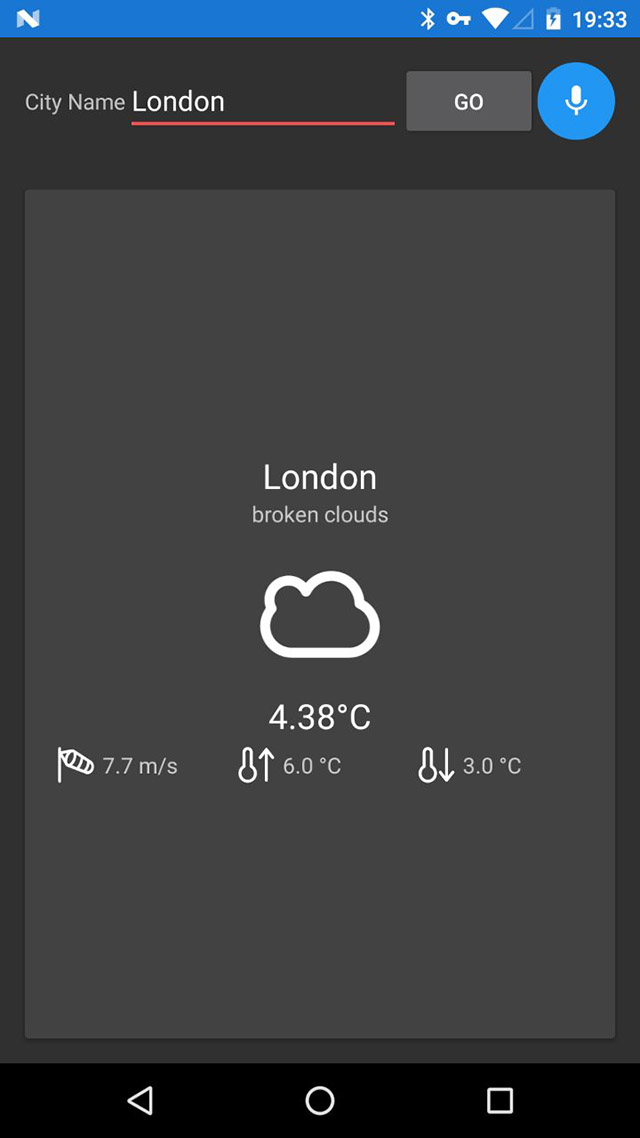
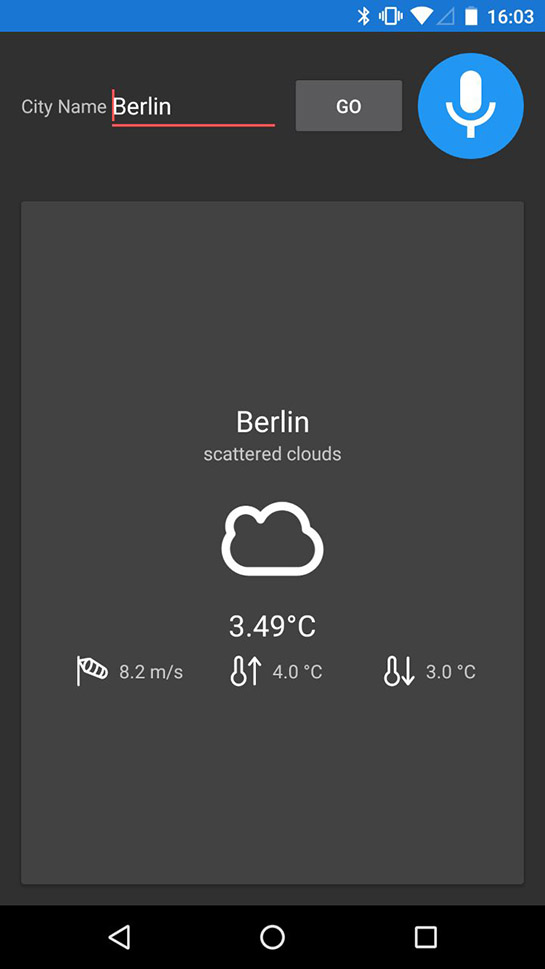
Add ReadMe & Diagram, update screenshot

diff --git a/README.md b/README.md
@@ -1,20 +1,87 @@
-# Android Coding Challenge
-We want to know how you write **code** - we don't care about coding challenges where you have to reimplement the HTTP protocol by using the bare basics, we want to know how you can use the existing libraries to solve the problems that we have to solve.
+Autolabs Application [![CircleCI](https://circleci.com/gh/mmirhoseini/Android-coding-challenge.svg?style=svg)](https://circleci.com/gh/mmirhoseini/Android-coding-challenge) [![Build Status](https://travis-ci.org/mmirhoseini/Android-coding-challenge.svg?branch=master)](https://travis-ci.org/mmirhoseini/Android-coding-challenge)
+===============================
 
-Your task is to create a very small Android application which will listen to a voice of the user and will tell them the current weather information when asked for. It's up to you to decide how exactly you want to approach this challenge - do you want to use the native SpeechRecognizer for voice recognition, use offline voice recognition for keywords (e.g. PocketSphinx) or another online service with conversational capabilities (e.g. api.ai, Microsoft LUIS, etc.). You can also choose whichever weather service you want.
+This repository holds the source code of the Weather Android Application, a simple Android client for the [Open Weather Map](http://openweathermap.org).
+This application was created by [Mohsen Mirhoseini Argi](http://mirhoseini.com), as part of the technical assessment by the [German Auto Labs GAL GmbH](https://www.germanautolabs.com) team.
 
-## What we'll look at
-- Structure of the code - how you use controllers, services, views. Keep it clean and reusable.
-- Code formatting, included unit and Espresso tests.
-- Using external APIs is cool, but you have to make sure the app will support errors if the API is down.
-- Readme - we don't need documentation, but a small file explaining how to run the project will be useful.
-- Overall user experience in the application.
+--------------------
+### What is this repository for? ###
 
-## Time limit
-It should take you between 4 to 8 hours to finish this task. If it takes you longer, it's okay to leave TODOs in the code, just provide an explanation what you would still finish there.
+* Autolabs Application
+*       Version:  1.0
+* Last Update: Wed Jan 4, 2017
 
-After sending the challenge we'll wait 2 weeks to hear back from you. Feel free to ask us for any clarification if you need it.
+![Screenshot](screenshot.jpg)
 
-## Process
-When you're ready, please fork this repository and start writing code in your fork. You'll get extra points for committing often in small chunks, so we'll see the process of how you created the application.
+--------------------
+### Development Tools ###
 
+* Android Studio v2.2.3
+* gradle-plugin v2.2.3
+* Android SDK Build Tools v25.0.0
+* MinSdkVersion 9
+* CompileSDKVersion 25
+* Retrolambda v3.3.1
+
+--------------------
+### Dependencies ###
+
+* Android Support Tools (recyclerView, cardView, vector,... ) v25.0.1
+* Retrofit v2.1.0
+* OkHttp v3.4.1
+* Dagger v2.8
+* RxJava v1.2.3
+* RxAndroid v1.2.1
+* ButterKnife v8.4.0
+* Timber v4.3.1
+* AndroidUtils v1.0.7
+* jUnit v4.12
+* Android Support Test v0.5
+* Mockito v1.10.19
+* Robolectric v3.1-rc1
+* Espresso v2.2.2
+
+--------------------
+### Important Notes ###
+
+The application has on Activity, MainActivity. The MainActivity is consist of a search UI and a Fragment, WeatherFragment, which is responsible for presenting searched city current weather.
+
+All activity lifecycle and network behaviours are implemented, and according to device size and network situation user get a good UI and UX. If no internet connection or network error, a Snackbar pops up and ask user to turn on network connection or retry.
+
+Some simple Test Cases was designed to test application UI functionality and core classes using jUnit and AndroidUnitTest.
+
+### Application Structure ###
+
+The Application implemented and structured bases on the MVP pattern best practice, contributed by [Antonio Leiva](http://antonioleiva.com/mvp-android/).
+
+Whole application functionality is implemented in "Core-Lib" module using pure Java. The "App" module contain all codes required for Android Application to load on Android OS, which can be replace by any other interface (e.g. console app or web app). You can read more about my method in this article published by me on [hackernoon.com](https://hackernoon.com/yet-another-mvp-article-part-1-lets-get-to-know-the-project-d3fd553b3e21#.h18h1lefy)
+
+The **view** (MainActivity), contain one fragment. WeatherFragment contain its own presenter and implement View interfaces and the only thing that the view will do is calling a method from the presenter every time there is an interface action.
+
+The **presenter** (WeatherPresenters, is responsible to act as the middle man between view and model. It retrieves data from the Model and returns it formatted to the view. It also decides what happens when user interact with the view.
+
+The **models** (WeatherInteractor), would only be the gateway to the service domain layer or business logic. In this case it provide the data needed to be displayed in the view from Network.
+
+The networking and API call are managed by [Retrofit](http://square.github.io/retrofit/) and OkHttp as its httpclient, contributed by [Square](http://square.github.io). It also shows decent logs while application is running in Debug mode. 
+
+Layers communications are managed by [RxJava](https://github.com/ReactiveX/RxJava) & [RxAndroid](https://github.com/ReactiveX/RxAndroid) contributed by [ReactiveX](http://reactivex.io).
+
+Dependency Injections are being managed by [Dagger](https://github.com/google/dagger) created by [Square](http://square.github.io) and now maintained by [Google](http://google.github.io/dagger/).
+
+![Diagram](diagram.png)
+
+It was my first experience with Speech Recognition Applications, so after a research I prefered to use Android SpeechRecognizer service, however, I know that this part is not so professional and require more changes.  
+
+Some minor Android common functions are managed using [AndroidUtils](https://github.com/mmirhoseini/android_utils) library, developed and published on jCenter by [myself](http://mirhoseini.com).
+
+Whole projects Dependencies are placed in "libraries.gradle" to avoid version conflicts and redundant in different modules.
+
+Used new SupportVector library in some icons cases for a better UI.
+
+Used new DataBinding library contributed by Google in Adapters for faster development, and added CustomBindingAdapter to replace API weather icons with in-app Vector assets for a better UI.
+
+The Android Log system is replaced with [Timber](https://github.com/JakeWharton/timber) contributed by Jake Wharton, which avoid logging in release version.
+
+Sample test cases are implemented by mockito, espresso, robolectric and mocking dagger.
+
+Finally, used [circleci](https://circleci.com/gh/mmirhoseini/Android-coding-challenge) and [travis ci](https://travis-ci.org/mmirhoseini/Android-coding-challenge) as Continues Integration services which are bind with [Github](https://github.com/mmirhoseini/Android-coding-challenge) repo.

diff --git a/TASK.md b/TASK.md
@@ -1,0 +1,20 @@
+# Android Coding Challenge
+We want to know how you write **code** - we don't care about coding challenges where you have to reimplement the HTTP protocol by using the bare basics, we want to know how you can use the existing libraries to solve the problems that we have to solve.
+
+Your task is to create a very small Android application which will listen to a voice of the user and will tell them the current weather information when asked for. It's up to you to decide how exactly you want to approach this challenge - do you want to use the native SpeechRecognizer for voice recognition, use offline voice recognition for keywords (e.g. PocketSphinx) or another online service with conversational capabilities (e.g. api.ai, Microsoft LUIS, etc.). You can also choose whichever weather service you want.
+
+## What we'll look at
+- Structure of the code - how you use controllers, services, views. Keep it clean and reusable.
+- Code formatting, included unit and Espresso tests.
+- Using external APIs is cool, but you have to make sure the app will support errors if the API is down.
+- Readme - we don't need documentation, but a small file explaining how to run the project will be useful.
+- Overall user experience in the application.
+
+## Time limit
+It should take you between 4 to 8 hours to finish this task. If it takes you longer, it's okay to leave TODOs in the code, just provide an explanation what you would still finish there.
+
+After sending the challenge we'll wait 2 weeks to hear back from you. Feel free to ask us for any clarification if you need it.
+
+## Process
+When you're ready, please fork this repository and start writing code in your fork. You'll get extra points for committing often in small chunks, so we'll see the process of how you created the application.
+
